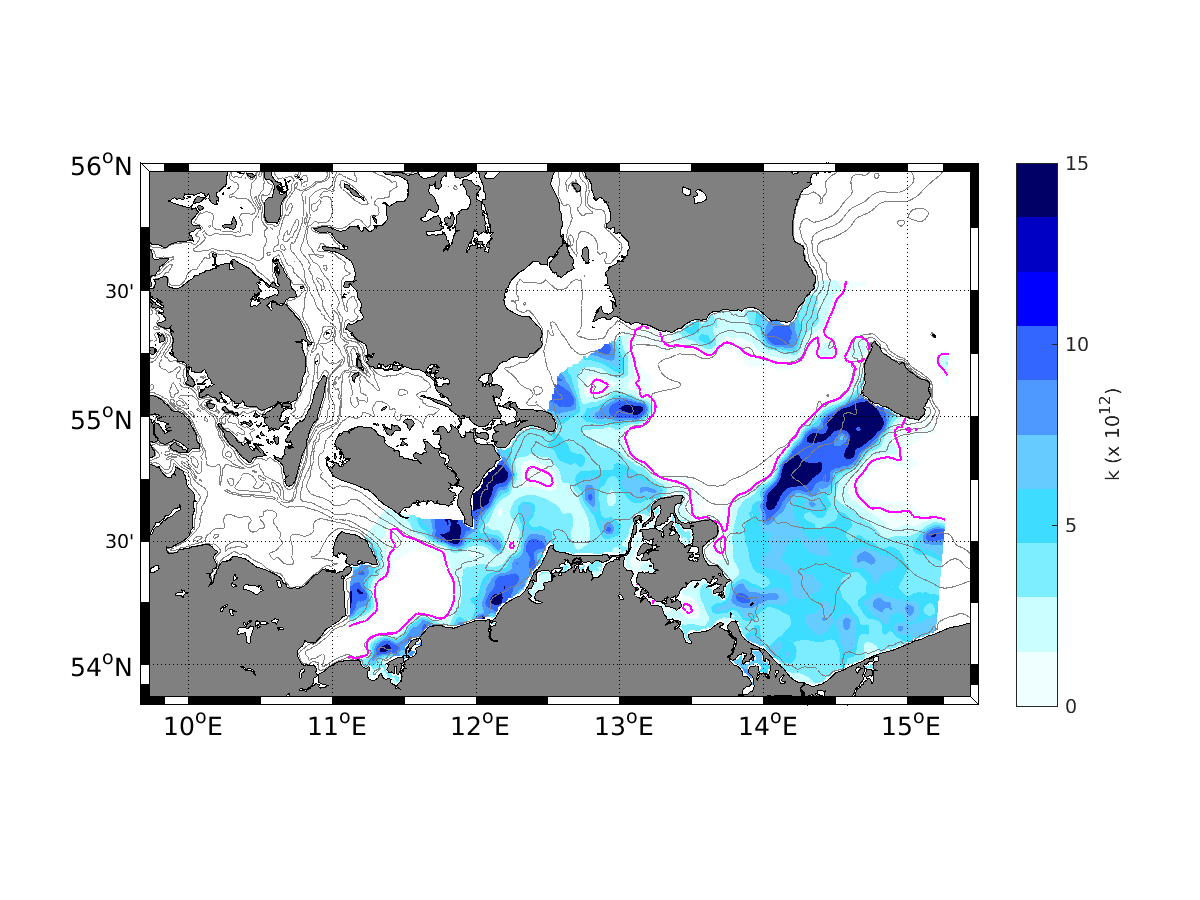
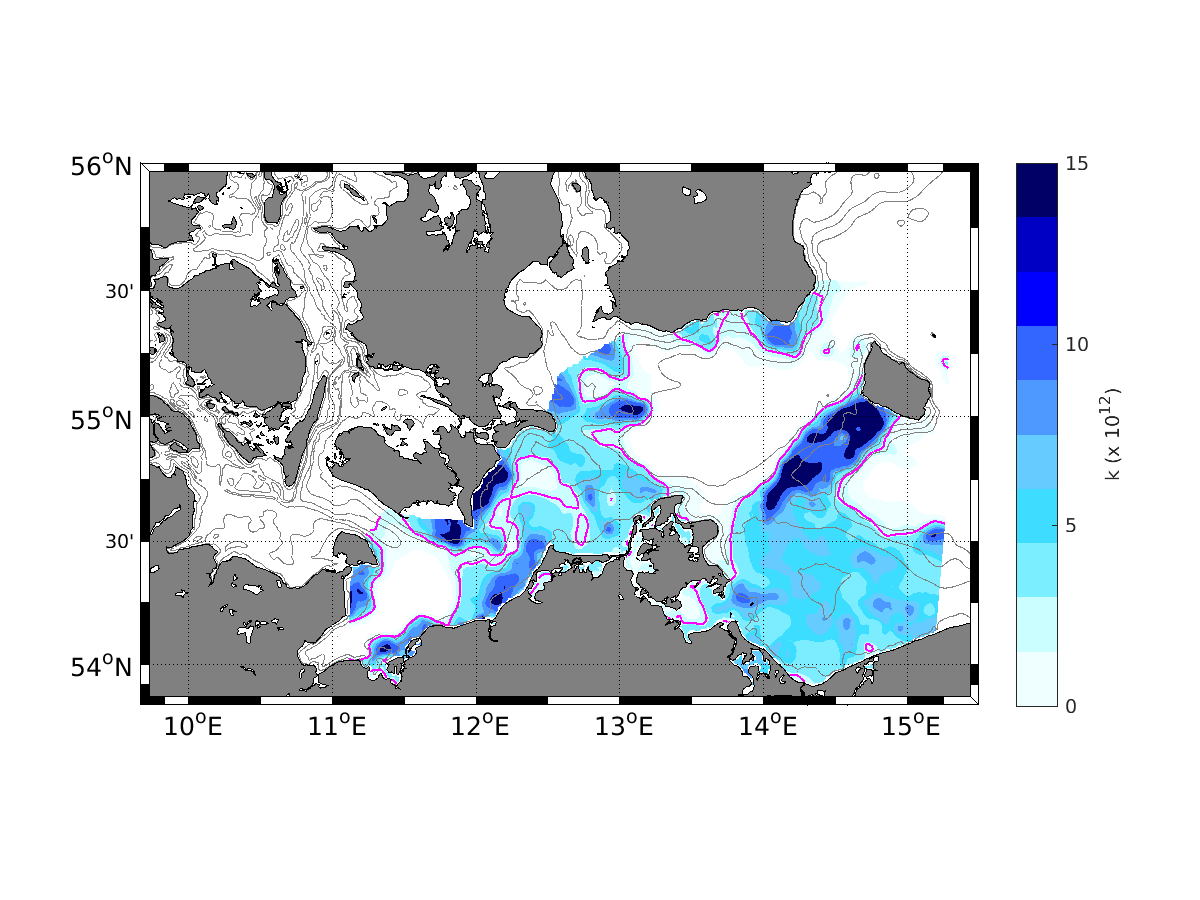
perm

diff --git a/kapitel-3.tex b/kapitel-3.tex
@@ -59,7 +59,7 @@ size distribution and interpolated. The data are shown in \fig{perm}.
 \begin{figure}[ht]
  \includegraphics[width=16cm]{bilder/perm_k.png}
  \caption{Permeability data from \cite{forster2003}. Pink line indicates the 
-k=$1\times10^{-12}$ isoline. Reprinted with permission. \label{perm}}
+k=$2.5\times10^{-12}$ isoline. Reprinted with permission. \label{perm}}
 \end{figure}
 
 \section{Wave model for the Baltic Sea}\label{balticswan}
@@ -168,7 +168,22 @@ flows, and in this case defined as
 with $\nu = 1.3 \times 10^{-6}$ m$^2$~s$^{-1}$ being the kinematic viscosity.
 \section{Results}	
 
+\subsection{Realistic run}
+\begin{figure}[ht]
+ \includegraphics[width=16cm]{bilder/ubot_real.png}
+ \caption{Maximal calculated $u_\ast$ using model outcome with realistic 
+forcing from the year 2014. Gray lines are isobaths, the pink line is again the 
+$k=2.5\times 10^{-12}$ isoline and the black line indicates $u_\ast = 0.02$ 
+m~s$^{-1}$.\label{ustar_real}}
+\end{figure}
 
+\begin{figure}[ht]
+ \includegraphics[width=11cm]{bilder/scatter_real.png}
+ \caption{Scatter plot of $u_\ast$ and $k$. Colors indicate 
+the water depth.\label{scatter_real}}
+\end{figure}
+
+\subsection{Idealized cases}
 
 \section{Discussion}
 
